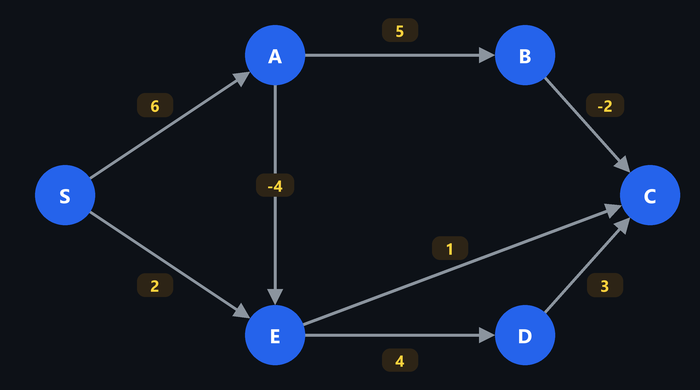
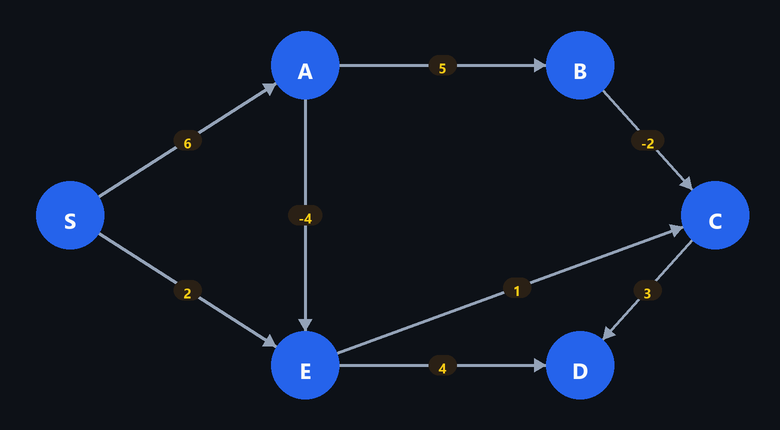
Add frameless dark-mode diagrams for complex trees in ADSA units

diff --git a/ADSA/UNIT-V.md b/ADSA/UNIT-V.md
@@ -84,18 +84,7 @@ $$
 
 ### State-space tree (partial)
 
-```text
-                      root
-           /        |       |        \
-        Q1=1       Q1=2    Q1=3      Q1=4
-         |          |       |         |
-  Q2=3 x(dead)     Q2=4    Q2=1     (dead)
-  Q2=4              |       |
-   |               Q3=1    Q3=4
-  Q3=2              |       |
-   |               Q4=3 *  Q4=2 *
-(no Q4: dead)    SOLUTION SOLUTION
-```
+![4-Queens State-Space Tree](figures/unit5_q2_4queens_tree.png)
 
 ### The two distinct solutions (`Q` = queen)
 
@@ -127,32 +116,7 @@ Solution 1: (2, 4, 1, 3)      Solution 2: (3, 1, 4, 2)
 
 ### State-space tree (include branch first). Each node shown as $(s, r)$
 
-```text
-(0,73)
-|-- include 5 --> (5,68)
-|   |-- include 10 --> (15,58)
-|   |   |-- include 12 --> (27,46)
-|   |   |   |-- include 13 --> 40 > 30 X pruned
-|   |   |   '-- exclude 13 --> (27,33): 15 -> 42, 18 -> 45 > 30 X (no solution)
-|   |   '-- exclude 12 --> (15,46)
-|   |       |-- include 13 --> (28,33): add 15 or 18 exceeds 30 X
-|   |       '-- exclude 13 --> (15,33)
-|   |           |-- include 15 --> (30,18) *** SOLUTION {5,10,15} ***
-|   |           '-- exclude 15 --> (15,18): +18 = 33 > 30 X
-|   '-- exclude 10 --> (5,58)
-|       |-- include 12 --> (17,46)
-|       |   |-- include 13 --> (30,33) *** SOLUTION {5,12,13} ***
-|       |   '-- exclude 13 --> 17+15 = 32 > 30, 17+18 = 35 > 30 X
-|       '-- exclude 12 --> (5,46): 13, 15, 18 combinations give 18, 20, 23, 5+... < 30 or > 30 X
-'-- exclude 5 --> (0,68)
-    |-- include 10 --> (10,58): every extension is 22, 25, 23, 28, 35+ ... X (no 30)
-    '-- exclude 10 --> (0,58)
-        |-- include 12 --> (12,46)
-        |   |-- include 13 --> (25,33) X (25 + 15 = 40 > 30)
-        |   '-- exclude 13 --> (12,33): include 15 -> 27 (no); exclude 15 -> include 18 -> (30,0)
-        |                      *** SOLUTION {12,18} ***
-        '-- exclude 12 --> (0,46): 13+15 = 28, 13+18 = 31, 15+18 = 33, 13+15+18 = 46 X
-```
+![Sum of Subsets State-Space Tree](figures/unit5_q3_subset_sum_tree.png)
 
 ### Examples of non-promising (pruned) nodes
 
@@ -187,19 +151,7 @@ The given graph has vertices `A, B, C, D, E`, and every pair of vertices is join
 
 ### State-space tree (order A, B, C, D, E)
 
-```text
-A = 1 (by symmetry, any colour for A gives the same outcome; 3 choices)
-|-- B = 1 : X (adjacent to A)
-|-- B = 2
-|   |-- C = 1 : X (A)    C = 2 : X (B)
-|   |-- C = 3
-|       |-- D = 1 : X (A)    D = 2 : X (B)    D = 3 : X (C)
-|       '-- no colour available for D -> BACKTRACK
-'-- B = 3
-    |-- C = 2
-        '-- D: 1 X (A), 2 X (C), 3 X (B) -> BACKTRACK
-(similarly for the other branches: every branch fails at vertex D)
-```
+![3-Coloring State-Space Tree](figures/unit5_q4_coloring_tree.png)
 
 - The first three vertices `A, B, C` are mutually adjacent, so they must use three different colours ($3! = 6$ ways).
 - Vertex `D` is adjacent to `A, B` and `C`, so all three colours are already used by its neighbours: no colour is available $\to$ backtrack to the previous levels, try all alternatives, and every path fails at `D`.
@@ -225,40 +177,7 @@ A Hamiltonian cycle visits every vertex exactly once and returns to the start. A
 
 ### State-space tree (paths from A)
 
-```text
-A
-|-- B
-|   |-- C
-|   |   '-- E
-|   |       '-- D --> D is not adjacent to A X (cannot close the cycle)
-|   |-- D
-|   |   '-- E
-|   |       '-- C --> C adjacent to A *** A-B-D-E-C-A ***
-|   '-- E
-|       |-- C --> D left, but C-D is not an edge X (dead end)
-|       '-- D --> C left, but D-C is not an edge X (dead end)
-|-- C
-|   |-- B
-|   |   |-- D
-|   |   |   '-- E --> E adjacent to A *** A-C-B-D-E-A ***
-|   |   '-- E
-|   |       '-- D --> D not adjacent to A X
-|   '-- E
-|       |-- D
-|       |   '-- B --> B adjacent to A *** A-C-E-D-B-A ***
-|       '-- B
-|           '-- D --> D not adjacent to A X
-'-- E
-    |-- B
-    |   |-- C --> D unreachable from C X
-    |   '-- D --> C unreachable from D X
-    |-- C
-    |   '-- B
-    |       '-- D --> D not adjacent to A X
-    '-- D
-        '-- B
-            '-- C --> C adjacent to A *** A-E-D-B-C-A ***
-```
+![Hamiltonian Cycles State-Space Tree](figures/unit5_q5_hamiltonian_tree.png)
 
 **How invalid paths are rejected:** a partial path is abandoned when the next vertex is not adjacent to the current one, when it was already visited, or when the last vertex has no edge back to A. Vertex D has only two neighbours (B and E), so any Hamiltonian cycle must use both edges `B–D` and `D–E`; every path that visits D in another way is a dead end.
 
@@ -289,6 +208,8 @@ Arrange items in decreasing profit/weight order: `I1 (2, 40), I5 (4, 25), I2 (5,
 - **Pruning rule:** kill a node if its $UB \le$ the best feasible profit already found (equivalently $c(x) > U$). The live node with the least cost (largest $UB$) is expanded next.
 
 ### State-space tree (node: weight, profit, UB)
+
+![0/1 Knapsack LC Branch and Bound State-Space Tree](figures/unit5_q6_bb_knapsack_tree.png)
 
 | Node | Decision | Weight | Profit | UB | Status |
 |---|---|---:|---:|---|---|
@@ -357,6 +278,8 @@ $$
 $$
 
 ### State-space tree with lower bounds
+
+![TSP Branch and Bound State-Space Tree](figures/unit5_q7_bb_tsp_tree.png)
 
 | Level | Node (path) | Computation | Lower bound | Status |
 |---:|---|---|---:|---|

diff --git a/ADSA/UNIT-III.md b/ADSA/UNIT-III.md
@@ -69,29 +69,16 @@ Search key $= 81$. $\text{mid} = \lfloor (\text{low} + \text{high}) / 2 \rfloor$
 
 **Q2. Demonstrate the Merge Sort algorithm on the dataset `42, 17, 8, 33, 25, 61, 14, 50, 9, 37`. Draw the splitting and merging stages. Explain the recurrence relation and derive the time complexity.**
 
-### Splitting (divide) stages
+### Splitting (divide) and Merging (combine) stages
 
-```text
-          [42 17 8 33 25 | 61 14 50 9 37]
-               /                    \
-     [42 17 8 | 33 25]        [61 14 50 | 9 37]
-        /          \             /          \
-   [42 17 | 8]  [33 | 25]   [61 14 | 50]  [9 | 37]
-     /    \                   /    \
-  [42]  [17]               [61]  [14]
-```
+![Merge Sort Splitting and Merging Tree](figures/unit3_q2_merge_sort_tree.png)
 
-### Merging (combine) stages
-
-```text
-[42] + [17]          -> [17 42]             [61] + [14]          -> [14 61]
-[17 42] + [8]        -> [8 17 42]           [14 61] + [50]       -> [14 50 61]
-[33] + [25]          -> [25 33]             [9] + [37]           -> [9 37]
-[8 17 42] + [25 33]  -> [8 17 25 33 42]     [14 50 61] + [9 37]  -> [9 14 37 50 61]
-
-[8 17 25 33 42] + [9 14 37 50 61]
--> [8, 9, 14, 17, 25, 33, 37, 42, 50, 61]
-```
+- **Merging steps:**
+  - `[42] + [17] → [17, 42]` and `[61] + [14] → [14, 61]`
+  - `[17, 42] + [8] → [8, 17, 42]` and `[14, 61] + [50] → [14, 50, 61]`
+  - `[33] + [25] → [25, 33]` and `[9] + [37] → [9, 37]`
+  - `[8, 17, 42] + [25, 33] → [8, 17, 25, 33, 42]` and `[14, 50, 61] + [9, 37] → [9, 14, 37, 50, 61]`
+  - `[8, 17, 25, 33, 42] + [9, 14, 37, 50, 61] → [8, 9, 14, 17, 25, 33, 37, 42, 50, 61]`
 
 **Sorted output:** `8, 9, 14, 17, 25, 33, 37, 42, 50, 61`
 
@@ -285,13 +272,7 @@ $$
 
 ### Minimum Spanning Tree (cost 16)
 
-```text
-A --4-- B --3-- C --6-- D --1-- F
-                        |
-                        2
-                        |
-                        E
-```
+![Minimum Spanning Tree Result](figures/unit3_q6_mst_tree.png)
 
 **Complexities:** Kruskal $O(E \log E)$; Prim $O(E \log V)$ with a heap ($O(V^2)$ with an array).
 

diff --git a/ADSA/UNIT-IV.md b/ADSA/UNIT-IV.md
@@ -203,13 +203,7 @@ $R(0,4) = 2$, so the root is $a_2 = \text{if}$. Left subtree $=$ keys $(0,1)$, w
 
 ### Final Optimal BST
 
-```text
-          if
-         /  \
-       do    int
-                \
-                while
-```
+![Optimal Binary Search Tree](figures/unit4_q4_obst_tree.png)
 
 Minimum cost $C(0,4) = 32$, i.e. the minimum expected search cost $= C / W = 32 / 16 = \mathbf{2}$ comparisons per search (weighted). **Time:** $O(n^3)$ ($O(n^2)$ with Knuth's optimisation).
 

diff --git a/ADSA/UNIT-I.md b/ADSA/UNIT-I.md
@@ -203,5 +203,7 @@ Bucket capacity $= 2$, using the last bits of the binary key. Initial global dep
 | `01` | $B_1 = \{1, 5\}$ | 2 |
 | `11` | $B_2 = \{7\}$ | 2 |
 
+![Extendible Hashing Directory and Split Buckets](figures/unit1_q6_extendible_hashing.png)
+
 - **Advantages:** no full rehash, grows gracefully, at most two disk accesses.
 - **Disadvantage:** the directory itself can become large.
